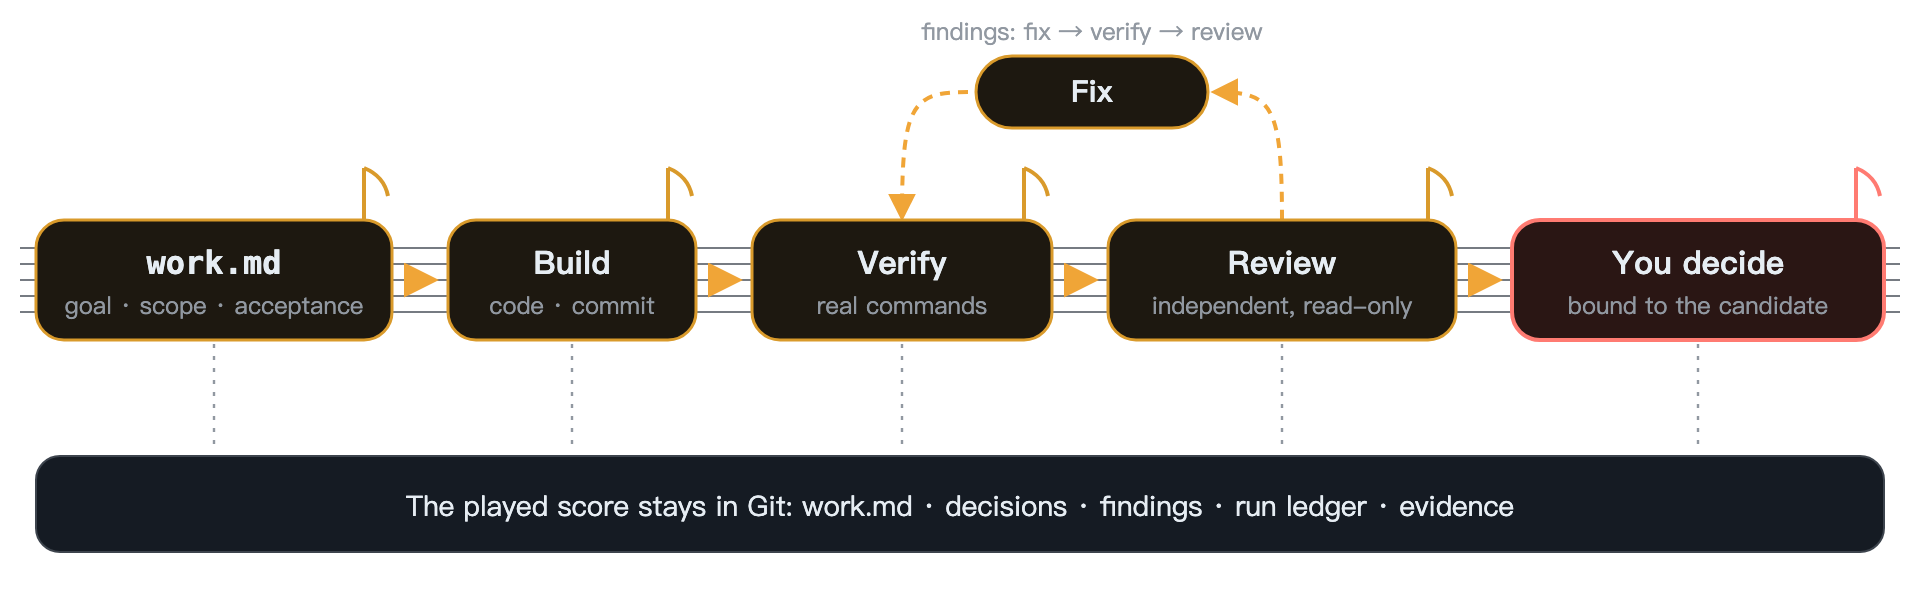
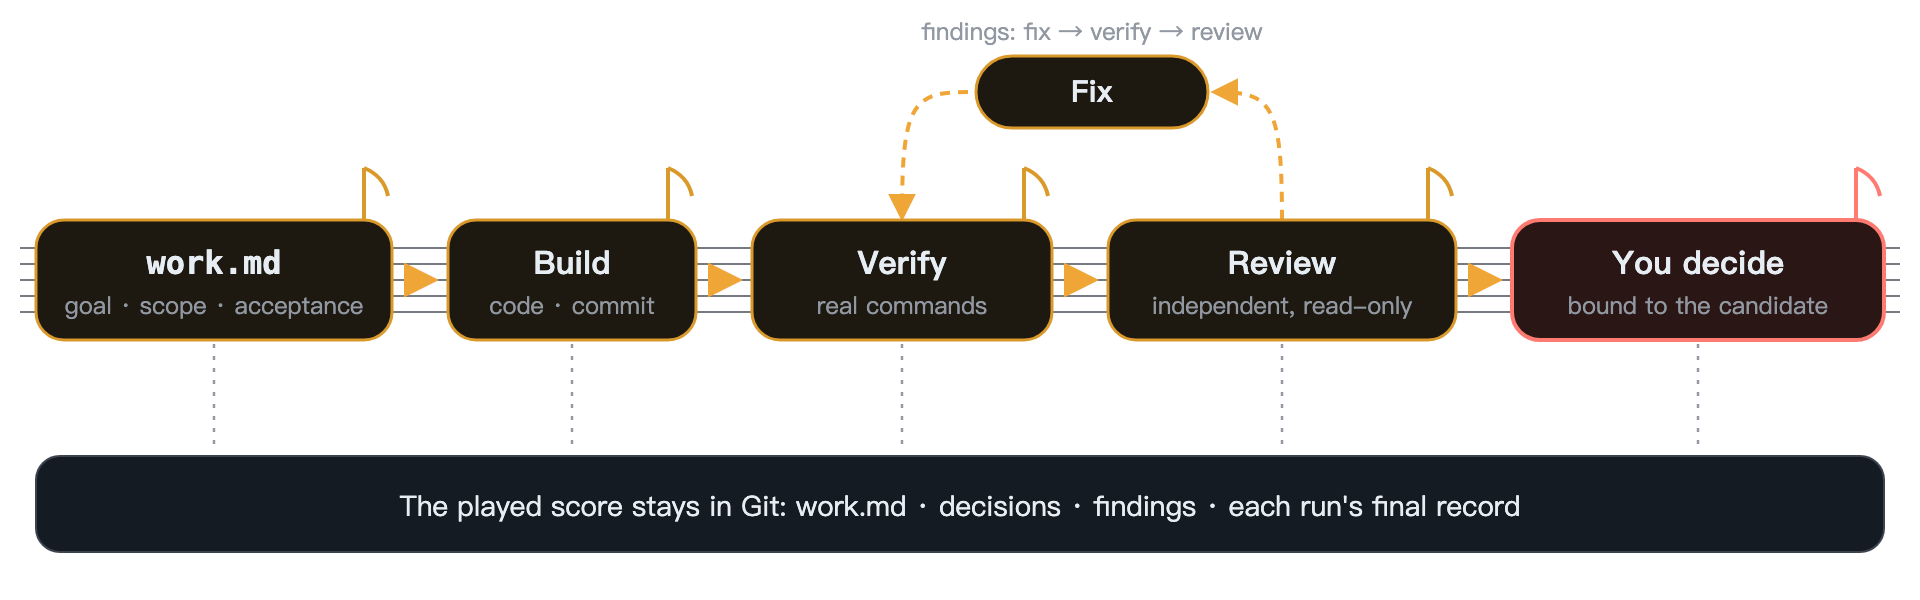
docs: README phone diagram and accurate record wording
A stacked loop diagram for screens up to 600px wide, and the README now
says which records travel with Git (work.md, decisions, findings, each
run's terminal record) and which stay on this machine (ledger, raw logs).

Changed region(s): [[0.2188, 0.81, 0.8125, 0.87]]

diff --git a/README.en.md b/README.en.md
@@ -14,18 +14,20 @@
 
 <p align="center"><a href="README.md">中文</a> · English</p>
 
-> **Why the name**: every step is a note, and the agent plays them beat by beat; the score it has played (context, decisions and evidence) stays in Git, ready to read again.
+> **Why the name**: every step is a note, and the agent plays them beat by beat; the score it has played (context, decisions and outcomes) stays in Git, ready to read again.
 
-BuildBeat is for humans and AI sessions: the work description and every record stay in project files and Git; implementation, verification, review and repair move forward outside the session and can always resume; the candidate waits with its evidence for your merge decision.
+BuildBeat is for humans and AI sessions: the work description, decisions and each run's outcome stay in project files and Git; implementation, verification, review and repair move forward outside the session and can always resume; the candidate waits with its evidence for your merge decision.
 
 ## At a glance
 
 <picture>
+  <source media="(max-width: 600px) and (prefers-color-scheme: dark)" srcset="https://raw.githubusercontent.com/HaiYangBG1/BuildBeat/main/docs/assets/readme/loop-en-dark-narrow.png">
+  <source media="(max-width: 600px)" srcset="https://raw.githubusercontent.com/HaiYangBG1/BuildBeat/main/docs/assets/readme/loop-en-light-narrow.png">
   <source media="(prefers-color-scheme: dark)" srcset="https://raw.githubusercontent.com/HaiYangBG1/BuildBeat/main/docs/assets/readme/loop-en-dark.png">
-  <img src="https://raw.githubusercontent.com/HaiYangBG1/BuildBeat/main/docs/assets/readme/loop-en-light.png" width="100%" alt="The delivery loop: after work.md come build, verify and review; findings go to fix, verify and review again; then the run stops for you to decide. Every step is written to records in Git: work.md, decisions, findings, the run ledger and evidence">
+  <img src="https://raw.githubusercontent.com/HaiYangBG1/BuildBeat/main/docs/assets/readme/loop-en-light.png" width="100%" alt="The delivery loop: after work.md come build, verify and review; findings go to fix, verify and review again; then the run stops for you to decide; work.md, decisions, findings and each run's final record stay in Git">
 </picture>
 
-Each work gets one `work.md`. Once you accept it, `buildbeat run` moves it forward beat by beat in an isolated worktree: build, run the project's own verification commands, an independent read-only review, and on findings fix, verify and review again. It stops when a person is really needed: the merge decision, an infrastructure failure, an exhausted budget, a review that does not converge. Every step is written to Git, so a new session, another tool or another person continues from the same record.
+Each work gets one `work.md`. Once you accept it, `buildbeat run` moves it forward beat by beat in an isolated worktree: build, run the project's own verification commands, an independent read-only review, and on findings fix, verify and review again. It stops when a person is really needed: the merge decision, an infrastructure failure, an exhausted budget, a review that does not converge. The work description, decisions, review findings and each run's final record go into Git, so a new session, another tool or another person continues from the same record; the live ledger and raw logs stay on this machine (see Records and handoffs below).
 
 ## Three promises
 
@@ -84,8 +86,8 @@ End-to-end work packages keep the whole story of a work in the repository:
 
 | Where | What | Travels with Git |
 |---|---|---|
-| `delivery/work/<ID>/` | work.md, run config, decisions, review findings, terminal records | Yes |
-| `.buildbeat/runtime/` | Local in-flight events and logs | No, this machine only |
+| `delivery/work/<ID>/` | work.md, run config, decisions, review findings, each run's terminal record (outcome, cost, evidence digests and references) | Yes |
+| `.buildbeat/runtime/` | The run ledger, logs, screenshots and other raw evidence | No, this machine only |
 | `.buildbeat/worktrees/` | The isolated worktrees that hold candidates | No, this machine only |
 
 Save missing facts before switching sessions; active runs do not migrate through Git clone. People and tools without the runtime can still read status and write work descriptions.

diff --git a/README.md b/README.md
@@ -14,18 +14,20 @@
 
 <p align="center">中文 · <a href="README.en.md">English</a></p>
 
-> **名字的由来**：每一步是一个音符，Agent 按节拍把它们演奏出来；演奏过的乐谱——上下文、决定和证据——留在 Git 里，随时翻阅。
+> **名字的由来**：每一步是一个音符，Agent 按节拍把它们演奏出来；演奏过的乐谱——上下文、决定和结论——留在 Git 里，随时翻阅。
 
-BuildBeat 面向人和 AI 会话：工作说明和全部记录留在项目文件与 Git 里，实现、验证、审查和修复在会话之外自动推进、随时可恢复，候选带着证据停在你的合并决定前。
+BuildBeat 面向人和 AI 会话：工作说明、决定和每轮结论留在项目文件与 Git 里，实现、验证、审查和修复在会话之外自动推进、随时可恢复，候选带着证据停在你的合并决定前。
 
 ## 一眼看懂
 
 <picture>
+  <source media="(max-width: 600px) and (prefers-color-scheme: dark)" srcset="https://raw.githubusercontent.com/HaiYangBG1/BuildBeat/main/docs/assets/readme/loop-zh-dark-narrow.png">
+  <source media="(max-width: 600px)" srcset="https://raw.githubusercontent.com/HaiYangBG1/BuildBeat/main/docs/assets/readme/loop-zh-light-narrow.png">
   <source media="(prefers-color-scheme: dark)" srcset="https://raw.githubusercontent.com/HaiYangBG1/BuildBeat/main/docs/assets/readme/loop-zh-dark.png">
-  <img src="https://raw.githubusercontent.com/HaiYangBG1/BuildBeat/main/docs/assets/readme/loop-zh-light.png" width="100%" alt="交付循环：work.md 之后依次是实现、验证、审查，审查有问题就修复、重验、再审，最后停下等你拍板；每一步都写进 Git 里的记录：work.md、决定、审查问题、运行台账、证据">
+  <img src="https://raw.githubusercontent.com/HaiYangBG1/BuildBeat/main/docs/assets/readme/loop-zh-light.png" width="100%" alt="交付循环：work.md 之后依次是实现、验证、审查，审查有问题就修复、重验、再审，最后停下等你拍板；work.md、决定、审查问题和每轮运行的终态记录留在 Git 里">
 </picture>
 
-一项工作写一份 `work.md`。你接受之后，`buildbeat run` 在隔离的工作树里按节拍推进：实现、跑项目自己的验证命令、独立只读审查，有问题就修复、重验、再审。真正需要人的时候它会停下：合并拍板、环境故障、预算到顶、审查不收敛。每一步都写进 Git，换会话、换工具、换人都从同一份记录接着干。
+一项工作写一份 `work.md`。你接受之后，`buildbeat run` 在隔离的工作树里按节拍推进：实现、跑项目自己的验证命令、独立只读审查，有问题就修复、重验、再审。真正需要人的时候它会停下：合并拍板、环境故障、预算到顶、审查不收敛。工作说明、决定、审查问题和每轮运行的终态记录都进 Git，换会话、换工具、换人都从同一份记录接着干；运行中的台账和原始日志留在本机（见下文「记录与接续」）。
 
 ## 三个承诺
 
@@ -84,8 +86,8 @@ work WORK-CSV-EXPORT:
 
 | 位置 | 内容 | 随 Git 走 |
 |---|---|---|
-| `delivery/work/<ID>/` | work.md、run 配置、决定、审查问题、终态记录 | 是 |
-| `.buildbeat/runtime/` | 本机在途事件和日志 | 否，只在本机 |
+| `delivery/work/<ID>/` | work.md、run 配置、决定、审查问题、每轮终态记录（结果、成本、证据摘要与引用） | 是 |
+| `.buildbeat/runtime/` | 运行台账、日志、截图等原始证据 | 否，只在本机 |
 | `.buildbeat/worktrees/` | 候选所在的隔离工作树 | 否，只在本机 |
 
 换会话前补齐未落盘事实；Git clone 不迁移活动进程和现场。没装运行时的人和工具也能读状态、写工作说明。

diff --git a/CHANGELOG.md b/CHANGELOG.md
@@ -4,7 +4,7 @@
 
 ## Unreleased
 
-- README (zh/en) redesigned for reading: a hero picture, the name's meaning (every step is a note the agent plays; the played score stays in Git), a delivery-loop diagram in light and dark, the three promises as short sections, a real `status` excerpt at the merge decision, and where records live as a table. Pictures live in `docs/assets/readme/` (the loop diagram is drawn by `diagrams.mjs`) and are linked through raw URLs so the npm page shows them too; `check:docs` now requires every README picture to exist, carry alt text and stay under 600 KB.
+- README (zh/en) redesigned for reading: a hero picture, the name's meaning (every step is a note the agent plays; the played score stays in Git), a delivery-loop diagram in light and dark with a stacked layout for phones, the three promises as short sections, a real `status` excerpt at the merge decision, and where records live as a table. Pictures live in `docs/assets/readme/` (the loop diagram is drawn by `diagrams.mjs`) and are linked through raw URLs so the npm page shows them too; `check:docs` now requires every README picture to exist, carry alt text and stay under 600 KB.
 
 ## v4.2.1 — 2026-10-07（补丁：审查没交报告当场停；成本按去向分开等待）
 
